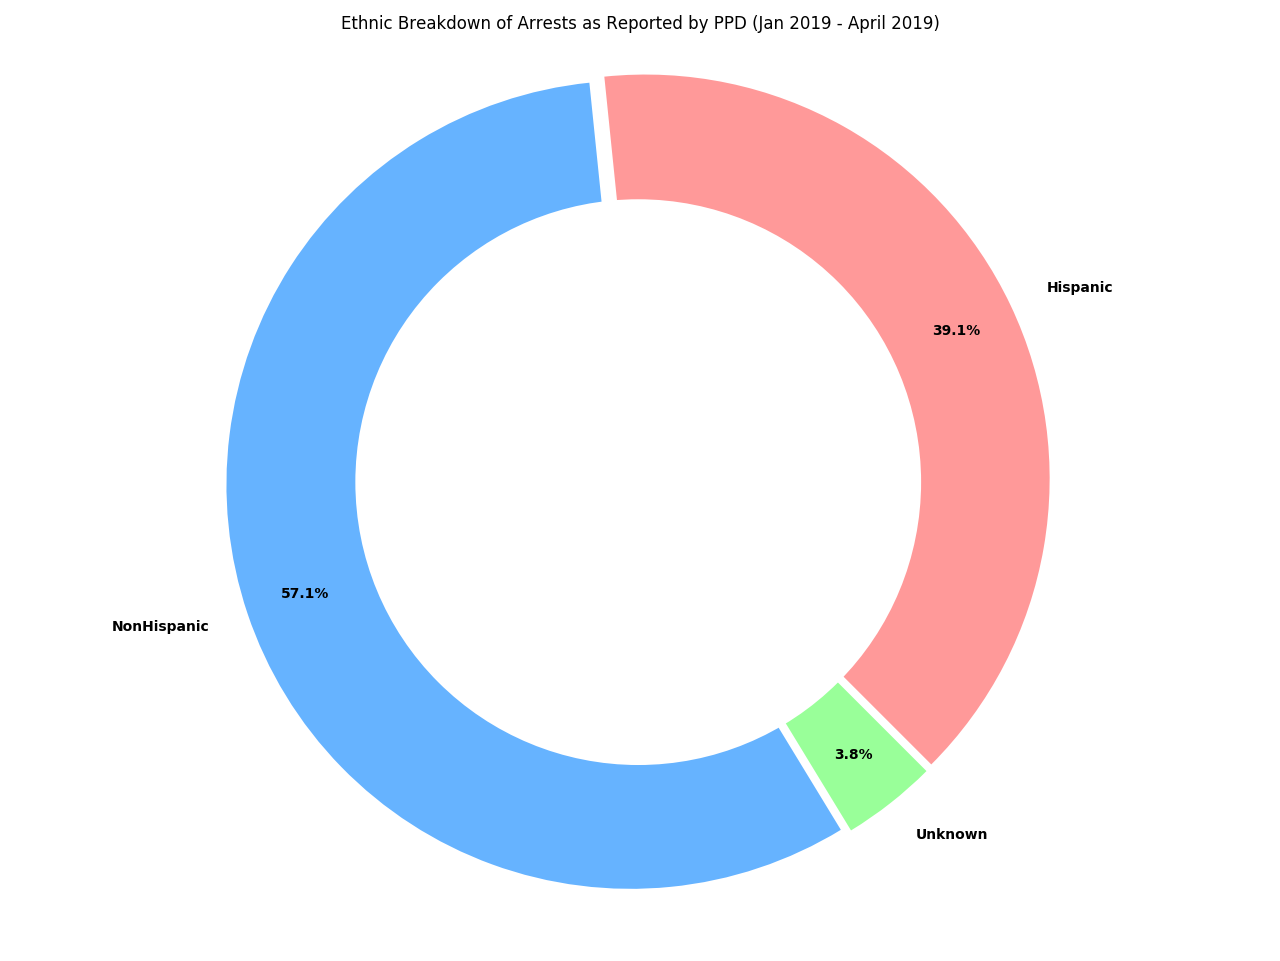
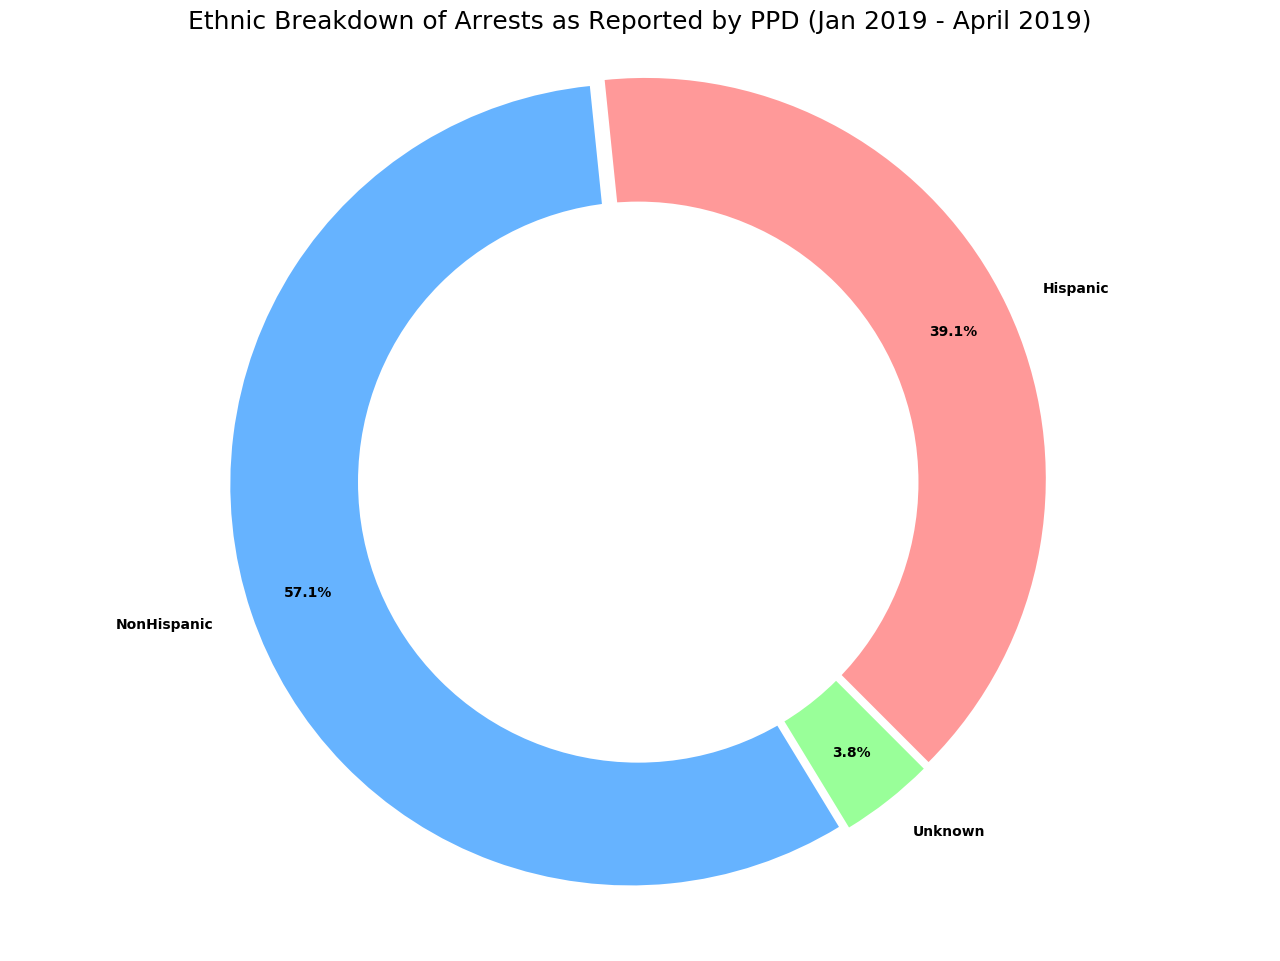
race per officer

diff --git a/visualizations/race_per_officer.py b/visualizations/race_per_officer.py
@@ -8,6 +8,8 @@ from pymongo import MongoClient
 from collections import Counter
 import itertools
 import matplotlib.pyplot as plt
+import operator
+import numpy as np
 
 uri = 'mongodb://user:password1@ds159025.mlab.com:59025/ri_crime_data'
 
@@ -35,19 +37,56 @@ for arrest in arrests:
                                 race_lst.append(race.strip())
                                 ethnicity_lst.append(ethnicity.strip())
 
+# Maps officers to a list counting the race breakdown
+# 0Black, 1White, 2Unknown, 3Asian/Pacific Islander, 4American Indian/Alaskan Native
+lst = zip([x.encode('ascii') for x in officer_lst], [x.encode('ascii') for x in race_lst])
+
+officers = {}
+
+for tuple in lst:
+        if tuple[0] not in officers:
+                officers[tuple[0]] = [tuple[1]]
+        else:
+                officers[tuple[0]].append(tuple[1])
+
+sorted_officers = sorted(officers.items(), key=lambda x: len(x[1]), reverse=True)[1:21]
+
+officer_counts = []
+
+for el in sorted_officers:
+        c = Counter(el[1])
+        officer_counts.append((el[0], c))
 
 
-#c = Counter([x.encode('ascii') for x in ethnicity_lst])
-
-# print(len(officer_lst))
-# print(len(race_lst))
 
 
+races = ['Black', 'White', 'Asian/Pacific Islander', 'American Indian/Alaskan Native', 'Unknown']
+labels = [str(n) for n in range(1, 21)]
+black_size = np.array([el[1]['Black'] for el in officer_counts])
+white_size = np.array([el[1]['White'] for el in officer_counts])
+unknown_size = np.array([el[1]['Unknown'] for el in officer_counts])
+api_size = np.array([el[1]['Asian/Pacific Islander'] for el in officer_counts])
+aian_size = np.array([el[1]['American Indian/Alaskan Native'] for el in officer_counts])
+colors = ['#596f91', '#917d59', '#916259', '#b3a3d1', '#a3d1c3']
+
+x_pos = [i for i, _ in enumerate(labels)]
+# '#ff9999','#66b3ff','#99ff99', '#ffcc99','#9400D3'
+plt.bar(x_pos, black_size, width = 0.8, label='Black', color=colors[0])
+plt.bar(x_pos, white_size, width = 0.8, label='White', color=colors[1], bottom=black_size)
+plt.bar(x_pos, api_size, width = 0.8, label='Asian/Pacific Islander', color=colors[2], bottom=black_size+white_size)
+plt.bar(x_pos, aian_size, width = 0.8, label='American Indian/Alaskan Native', color=colors[3], bottom=black_size+white_size+api_size)
+plt.bar(x_pos, unknown_size, width = 0.8, label='Unknown', color=colors[4], bottom=black_size+white_size+api_size+aian_size)
+plt.xticks(x_pos, labels)
+plt.xlabel("Officer # (Names Redacted)", fontdict = {'fontsize' : 12})
+plt.ylabel("Total Arrests", fontdict = {'fontsize' : 12})
+plt.title("Racial Breakdown of Individual Arrests by Officer (Jan 2019 - April 2019)", fontdict = {'fontsize' : 18})
+plt.legend(races, loc='best')
+plt.show()
 
 
 
-# labels = ['Hispanic', 'NonHispanic', 'Unknown']
-# sizes = [c[label] for label in labels]
+
+#sizes = [c[label] for label in labels]
 # colors = ['#ff9999','#66b3ff','#99ff99']
 # explode = [.02, .02, .01]
 

diff --git a/visualizations/ethnicity_over_arrests.py b/visualizations/ethnicity_over_arrests.py
@@ -46,5 +46,5 @@ for autotext in autotexts:
         autotext.set_weight('bold')
 ax1.axis('equal')
 plt.tight_layout()
-plt.title('Ethnic Breakdown of Arrests as Reported by PPD (Jan 2019 - April 2019)')
+plt.title('Ethnic Breakdown of Arrests as Reported by PPD (Jan 2019 - April 2019)', fontdict = {'fontsize' : 18})
 plt.show()

diff --git a/visualizations/race_over_arrests.py b/visualizations/race_over_arrests.py
@@ -52,5 +52,5 @@ for autotext in autotexts:
         autotext.set_weight('bold')
 ax1.axis('equal')
 plt.tight_layout()
-plt.title('Racial Breakdown of Arrests as Reported by PPD (Jan 2019 - April 2019)')
+plt.title('Racial Breakdown of Arrests as Reported by PPD (Jan 2019 - April 2019)', fontdict = {'fontsize' : 18})
 plt.show()
